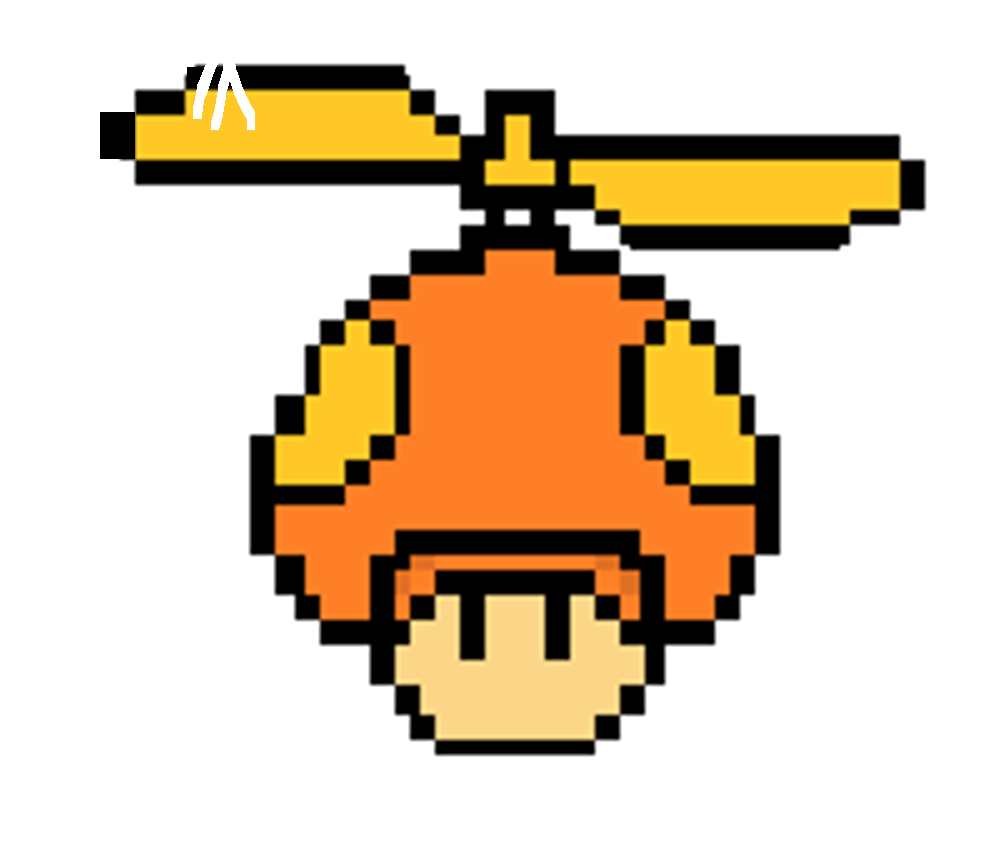
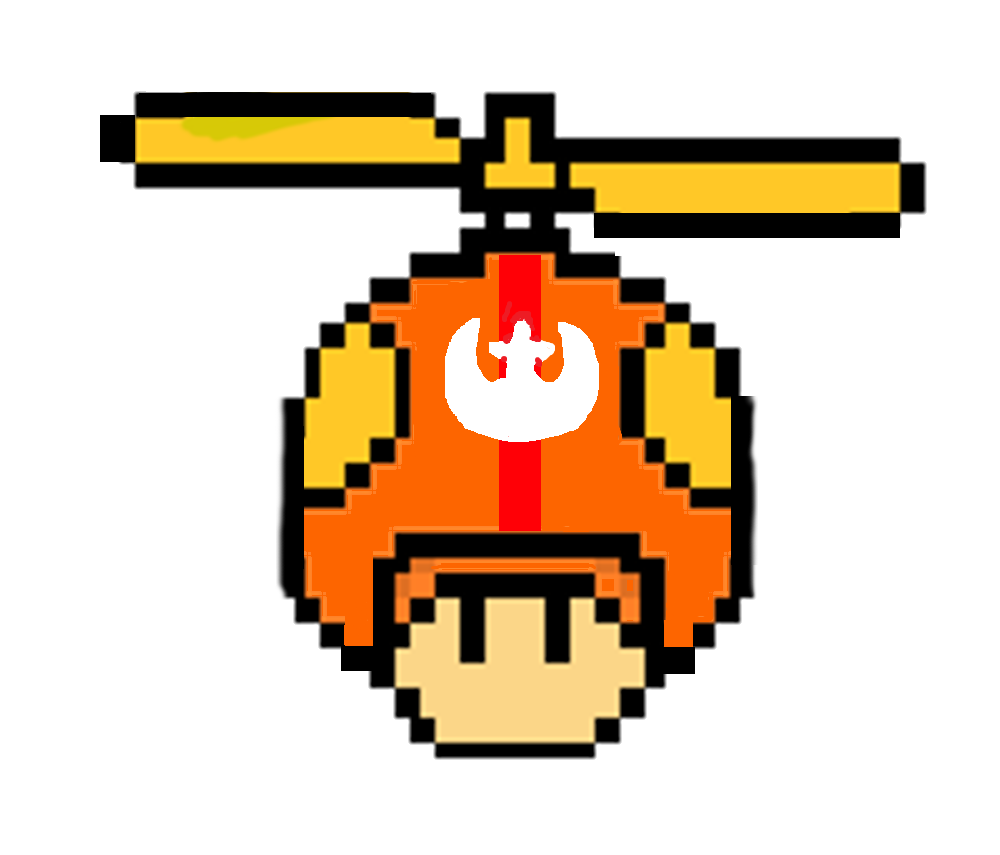
attempted to create the Reverse Frames class but failed and edited more pixel art

diff --git a/TanookiSquirrel/TanookiSquirrel/Game1.cs b/TanookiSquirrel/TanookiSquirrel/Game1.cs
@@ -14,13 +14,13 @@ namespace TanookiSquirrel
     /// <summary>
     /// This is the main type for your game
     /// </summary>
-    public class Game1 : Microsoft.Xna.Framework.Game
+    public class Game1 : Game
     {
         GraphicsDeviceManager graphics;
         SpriteBatch spriteBatch;
         
         TheGenuineTanooki RaccoonDog;
-
+        ReverseFrames Tanuki;
        
         public Map map;
         
@@ -55,7 +55,7 @@ namespace TanookiSquirrel
             // Create a new SpriteBatch, which can be used to draw textures.
             spriteBatch = new SpriteBatch(GraphicsDevice);
             RaccoonDog = new TheGenuineTanooki(Content.Load<Texture2D>("raccoon dog"), new Vector2(60, 570), new Vector2(3), Color.White, new List<Frame>());
-
+            Tanuki = new ReverseFrames(Content.Load<Texture2D>("tanuki"), new Vector2(60, 570), new Vector2(3), Color.White, new List<Frame>());
             PixelItem.AddItem(TanookiEnums.PixelTypes.Wall, new PixelItem(Color.Black, Content.Load<Texture2D>("wall"), Color.White, new Vector2(0.08f)));
             PixelItem.AddItem(TanookiEnums.PixelTypes.Lava, new PixelItem(Color.Red, Content.Load<Texture2D>("lava"), Color.White, new Vector2(0.03f)));
             PixelItem.AddItem(TanookiEnums.PixelTypes.Flag, new PixelItem(Color.Green, Content.Load<Texture2D>("flag"), Color.White, new Vector2(2.9f)));
@@ -86,13 +86,14 @@ namespace TanookiSquirrel
         /// <param name="gameTime">Provides a snapshot of timing values.</param>
         protected override void Update(GameTime gameTime)
         {
+            
             // Allows the game to exit
             if (GamePad.GetState(PlayerIndex.One).Buttons.Back == ButtonState.Pressed)
                 this.Exit();
             KeyboardState ks = Keyboard.GetState();
             // TODO: Add your update logic here
             RaccoonDog.Update(gameTime, ks);
-
+            Tanuki.Update(gameTime, ks);
             RaccoonDog.isFalling = true;
 
             for (int i = 0; i < map.Items[TanookiEnums.PixelTypes.Wall].Count; i++)
@@ -102,11 +103,11 @@ namespace TanookiSquirrel
                     RaccoonDog.isFalling = false;
                 }
             }
-            for (int j = 0; j < map.Items[TanookiEnums.PixelTypes.Star].Count; j++)
+           for (int j = 0; j < map.Items[TanookiEnums.PixelTypes.Star].Count; j++)
             {
                 if (RaccoonDog.hitbox.Intersects(map.Items[TanookiEnums.PixelTypes.Star][j].hitbox))
                 {
-                    RaccoonDog.isFalling = false;
+                    
                 }
                 base.Update(gameTime);
             }
@@ -127,7 +128,7 @@ namespace TanookiSquirrel
 
             RaccoonDog.DrawFloor(spriteBatch, GraphicsDevice);
             RaccoonDog.Draw(spriteBatch);
-           
+            Tanuki.Draw(spriteBatch);
             spriteBatch.End();
             base.Draw(gameTime);
         }

diff --git a/TanookiSquirrel/TanookiSquirrel/ReverseFrames.cs b/TanookiSquirrel/TanookiSquirrel/ReverseFrames.cs
@@ -1,0 +1,60 @@
+using Microsoft.Xna.Framework.Graphics;
+using Microsoft.Xna.Framework.Input;
+using Microsoft.Xna.Framework;
+using System;
+using System.Collections.Generic;
+using System.Linq;
+using System.Text;
+
+namespace TanookiSquirrel
+{
+    class ReverseFrames : MovingTanookiAnimation
+    {
+        Dictionary<TanookiEnums.TanookiFrames2, List<Frame>> animation;
+        private TanookiEnums.TanookiFrames2 TanookiState2;
+
+        TanookiEnums.TanookiFrames2 currentTanookiState
+        {
+            get { return TanookiState2; }
+            set { if (TanookiState2 != value) { TanookiState2 = value; currentTanookiframeIndex = 0; } }
+        }
+
+        public ReverseFrames(Texture2D image, Vector2 position, Vector2 speed, Color color, List<Frame> frames)
+            : base (image, position, speed, color, frames)
+        {
+            List<Frame> rWalking = new List<Frame>()
+            {
+                new Frame(new Rectangle(732, 278, 22, 29), new Vector2()),
+                new Frame(new Rectangle(757, 278, 21, 29), new Vector2()),
+            };
+            animation = new Dictionary<TanookiEnums.TanookiFrames2, List<Frame>>();
+            animation.Add(TanookiEnums.TanookiFrames2.rWalking, rWalking);
+
+            List<Frame> rIdle = new List<Frame>()
+            {
+                new Frame(new Rectangle(757, 278, 21, 29), new Vector2()),
+            };
+            currentTanookiState = TanookiEnums.TanookiFrames2.rIdle;
+            this.frames = animation[currentTanookiState];
+            
+        }
+        public void Update (GameTime gTime, KeyboardState ks)
+        {
+            frames = animation[currentTanookiState];
+            if (currentTanookiState == TanookiEnums.TanookiFrames2.rWalking)
+            {
+                if (currentTanookiframeIndex + 1 >= frames.Count)
+                {
+                    currentTanookiState = TanookiEnums.TanookiFrames2.rIdle;
+                }
+            }
+            if (ks.IsKeyDown(Keys.A))
+            {
+                currentTanookiState = TanookiEnums.TanookiFrames2.rWalking;
+                position.X -= position.X;
+            }
+            base.Update(gTime);
+
+        }
+    }
+}

diff --git a/TanookiSquirrel/TanookiSquirrel/TheGenuineTanooki.cs b/TanookiSquirrel/TanookiSquirrel/TheGenuineTanooki.cs
@@ -13,6 +13,7 @@ namespace TanookiSquirrel
         Dictionary<TanookiEnums.TanookiFrames, List<Frame>> aneemayshun;
         private TanookiEnums.TanookiFrames TanookiStatesss;
         int floor = 800;
+
         TanookiEnums.TanookiFrames currentTanookiState
         {
             get
@@ -28,37 +29,12 @@ namespace TanookiSquirrel
                 }
             }
         }
-
-        /*
-         * 
-         *flying
-264, 280, 23, 27
-290, 280, 23, 27
-316, 279, 22, 28
-
-p speed flying
-419, 278, 24, 28
-446, 279, 24, 27
-473, 279, 24, 27
-
-pull hat over head
-500, 279, 21, 27
-
-stone raccoon dog
-523, 277, 16, 29
-
-swimming
-661, 278, 24, 28
-
-
-         *
-         *
-         * 
         
-        */
+        
         public TheGenuineTanooki(Texture2D image, Vector2 position, Vector2 speed, Color color, List<Frame> frames)
             : base (image, position, speed, color, frames)
         {
+            
             List<Frame> ExperimentalRunning = new List<Frame>()
             {
                 new Frame(new Rectangle(86, 278, 22, 29), new Vector2()),
@@ -191,11 +167,13 @@ swimming
                     currentTanookiState = TanookiEnums.TanookiFrames.Idle;
                 }
             }
+            /*
             if (ks.IsKeyDown(Keys.A))
             {
                 currentTanookiState = TanookiEnums.TanookiFrames.Idle;
                 position.X -= speed.X;
             }
+            */
             if (currentTanookiState == TanookiEnums.TanookiFrames.Stone)
             {
                 if (currentTanookiframeIndex + 1 >= frames.Count)
@@ -241,7 +219,7 @@ swimming
                     currentTanookiState = TanookiEnums.TanookiFrames.Idle;
                 }
             }
-            if (ks.IsKeyDown(Keys.Down))
+            if (ks.IsKeyDown(Keys.Space))
             {
                 currentTanookiState = TanookiEnums.TanookiFrames.SpinAttack;
                 position.X += speed.X;

diff --git a/TanookiSquirrel/TanookiSquirrel/TanookiEnums.cs b/TanookiSquirrel/TanookiSquirrel/TanookiEnums.cs
@@ -30,6 +30,11 @@ namespace TanookiSquirrel
             
             Mush
         }
+        public enum TanookiFrames2
+        {
+            rWalking,
+            rIdle
+        }
 
     }
 }
